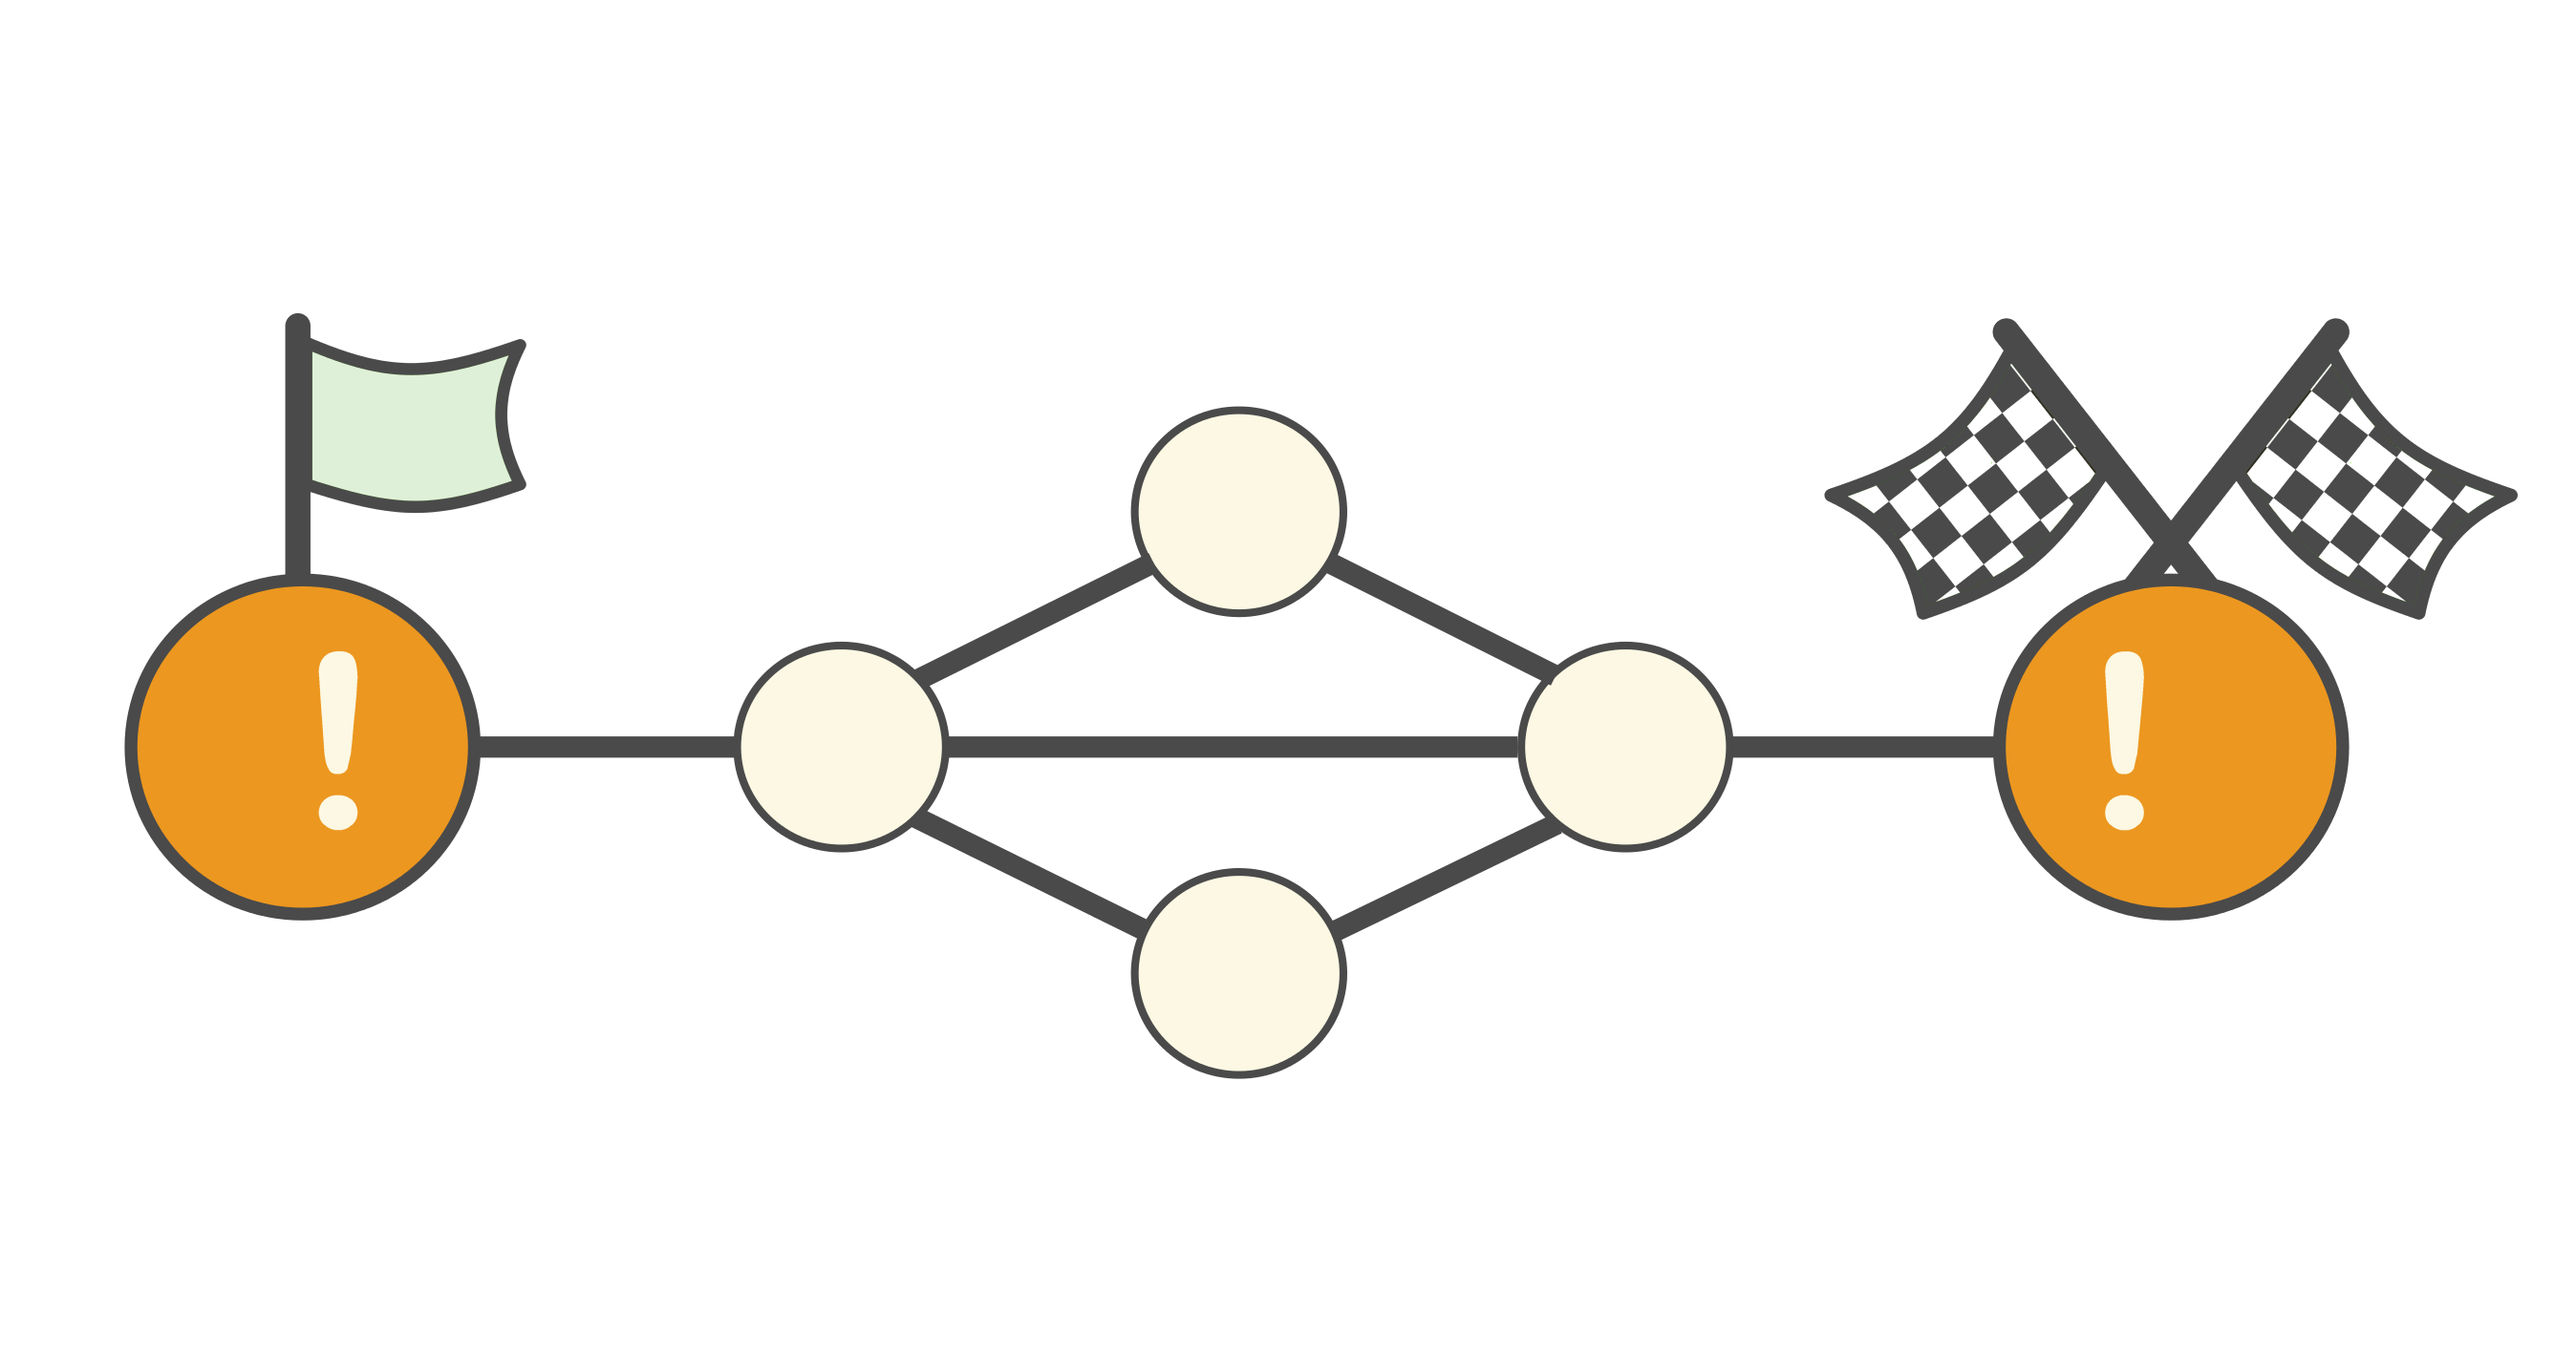
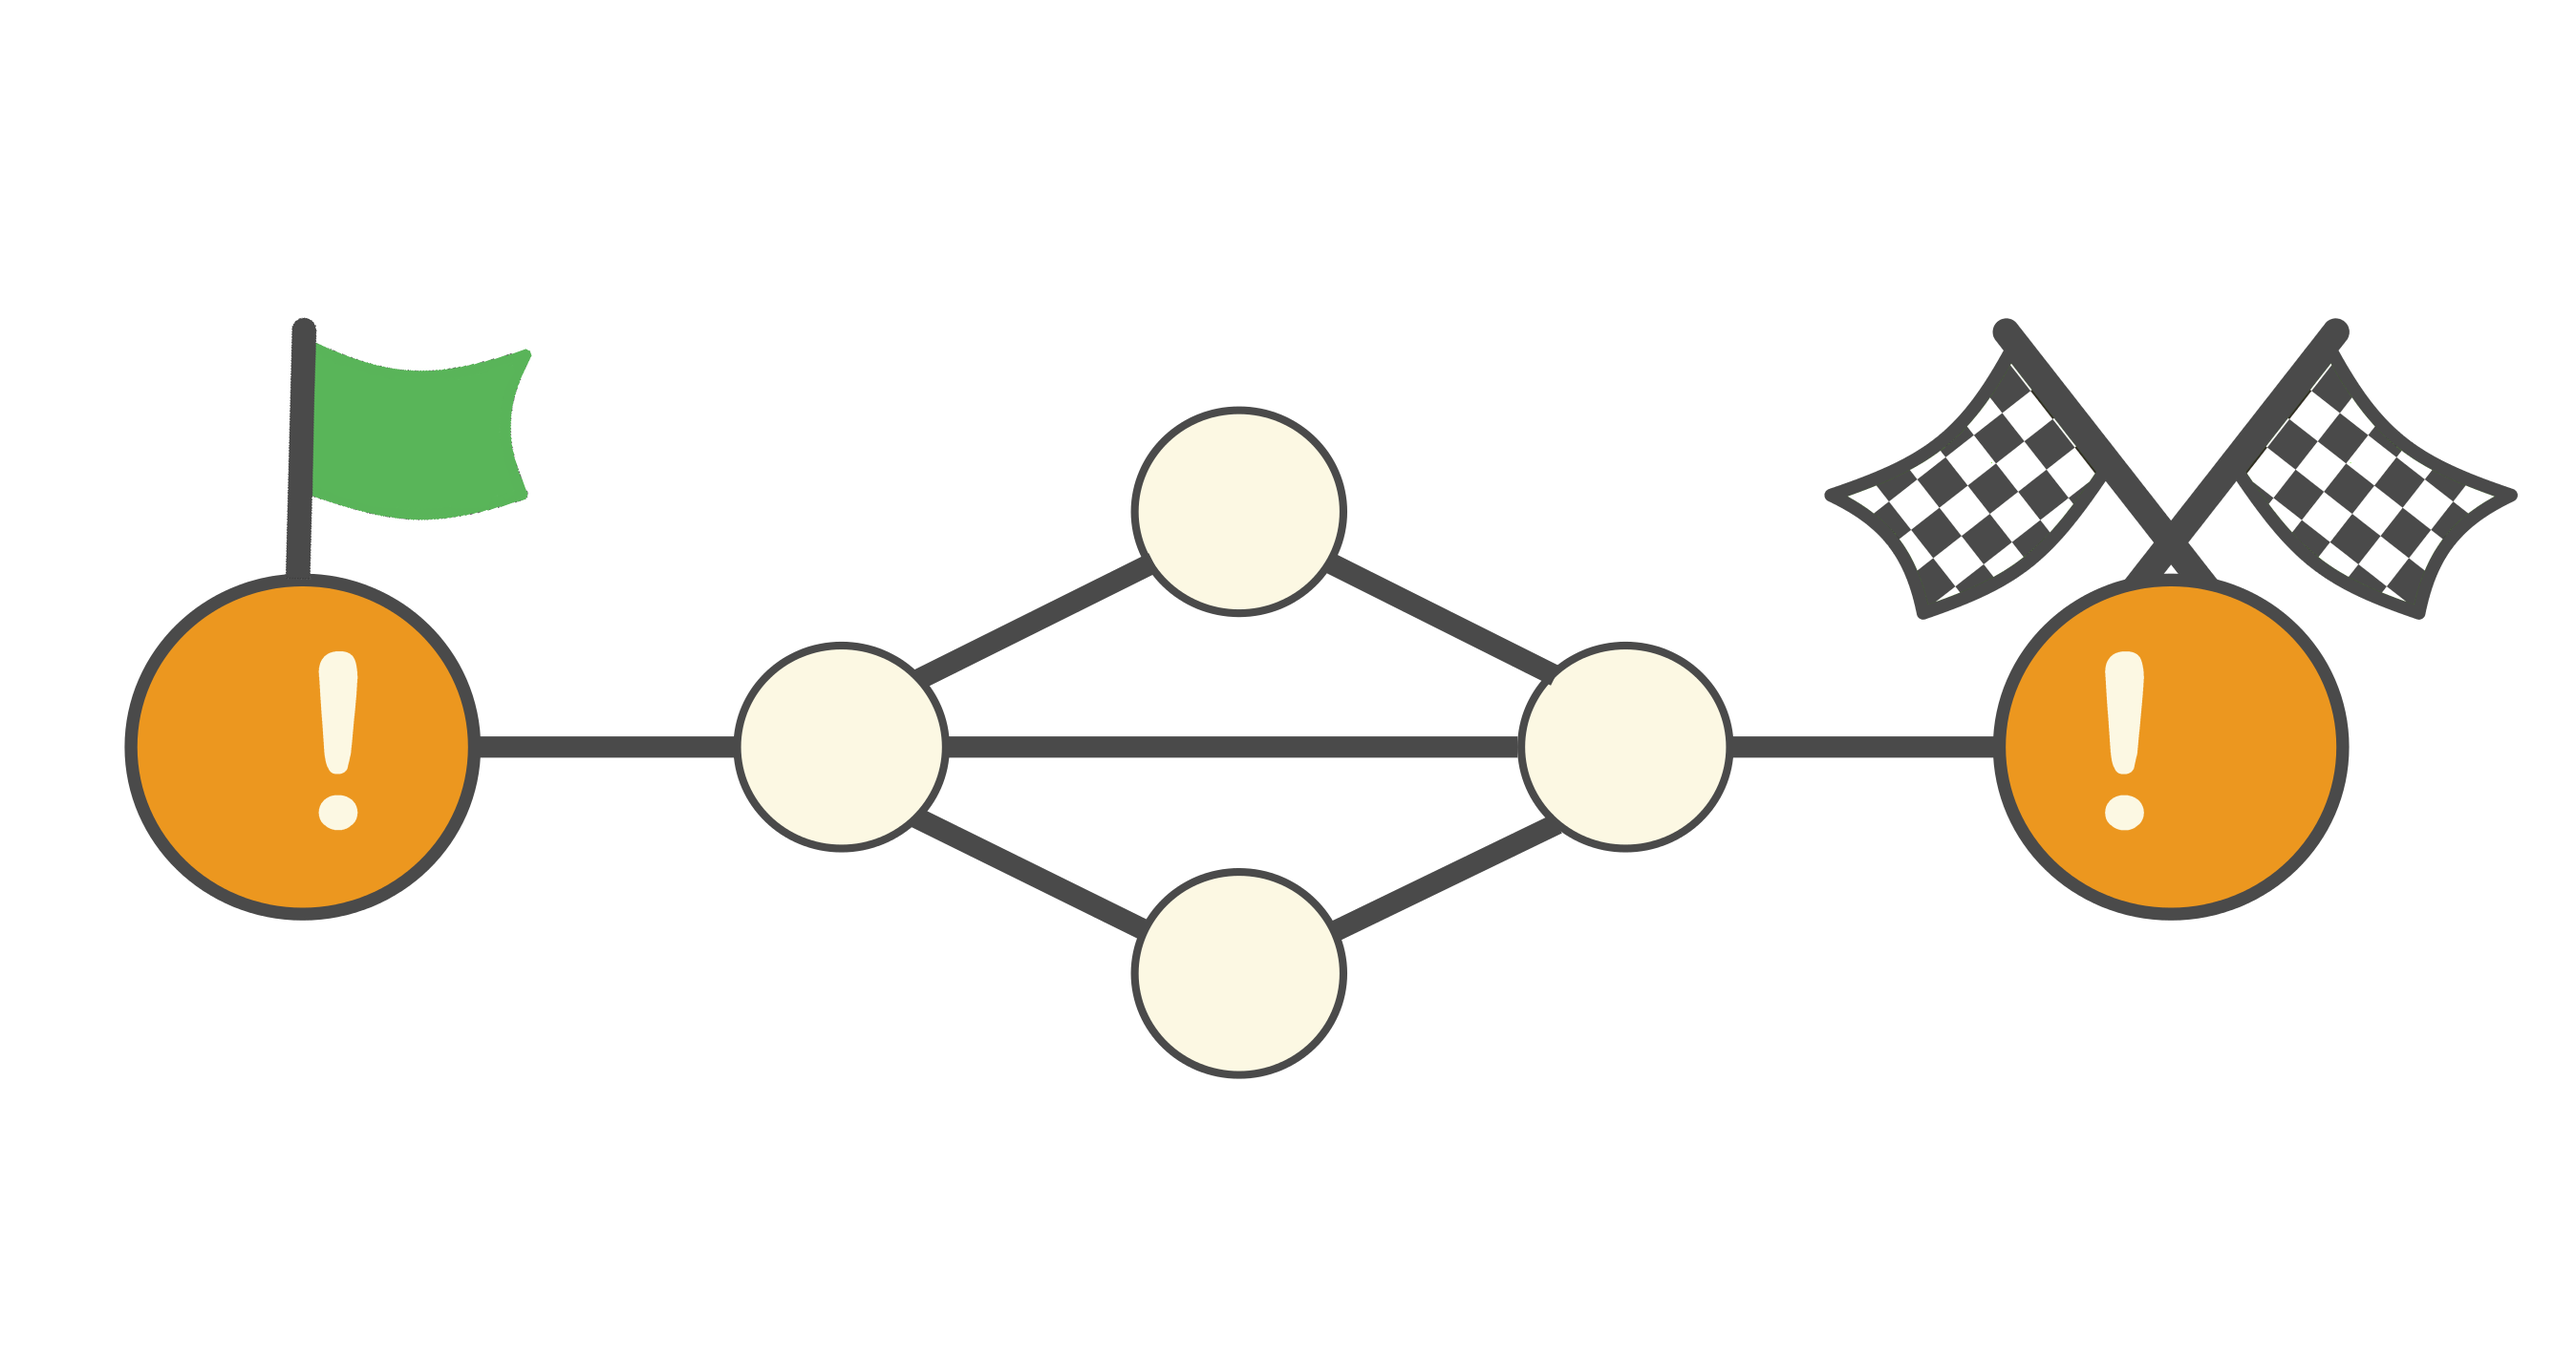
Changed colors of flag

Changed region(s): [[0.0935, 0.2475, 0.2181, 0.4023]]

diff --git a/NetExplorer/templates/NetExplorer/pathway_finder.html b/NetExplorer/templates/NetExplorer/pathway_finder.html
@@ -50,14 +50,13 @@
                             <img class="pfind-form-icon" src="{% static 'Images/uncheck.png' %}"/> Excluding: <strong> </strong> <br>
                         </div>
                         <h4> <span class="glyphicon glyphicon-play" aria-hidden="true"></span> Number of Pathways: <strong>{{ numpath }}</strong></h4>
-                        <h4><span class="glyphicon glyphicon-play" aria-hidden="true"></span> Path Length: <strong>Unas cuantas</strong></h4>
-                        <h4><span class="glyphicon glyphicon-play" aria-hidden="true"></span> Best Score: <strong>ejej</strong></h4>
-                        <h4><span class="glyphicon glyphicon-play" aria-hidden="true"></span> Avg Score: <strong>ojoj</strong></h4>
+                        <h4><span class="glyphicon glyphicon-play" aria-hidden="true"></span> Path Length: <strong>{{ plen }}</strong></h4>
                     </div>
                 </div>
 
                 <!-- FILTER FORM -->
                 <div id="pathway-filter-div">
+                    <h3 class="filter-title">Filter pathways by identifiers</h3>
                     <form id="pathway-filter" class="form-inline">
                         <input id="pathway-filter-text" type="text" class="form-control" name="start" placeholder="Enter Symbol(s), separated by commas">
                         <input id="pathway-filter-submit" class="btn btn-warning" type="submit" value="Filter">
@@ -71,7 +70,7 @@
                     <div class="panel panel-default pathway-panel" id="panel{{ forloop.counter }}" value='{{ path.0|safe }}' class="visible">
                         <div class="panel-heading">
                             <div class="path-title">
-                                <h3>Pathway #{{ forloop.counter }}</h3>
+                                <h3>Pathway {{ forloop.counter }}</h3>
                                 <span class="text-success path-score">Score: {{ path.1 }}</span>
                             </div>
 

diff --git a/NetExplorer/static/css/style.css b/NetExplorer/static/css/style.css
@@ -37,6 +37,7 @@
     margin-top: 5%;
     margin-left: 5%;
     margin-right: 5%;
+
 }
 
 /* SOME FOOTER THINGS */
